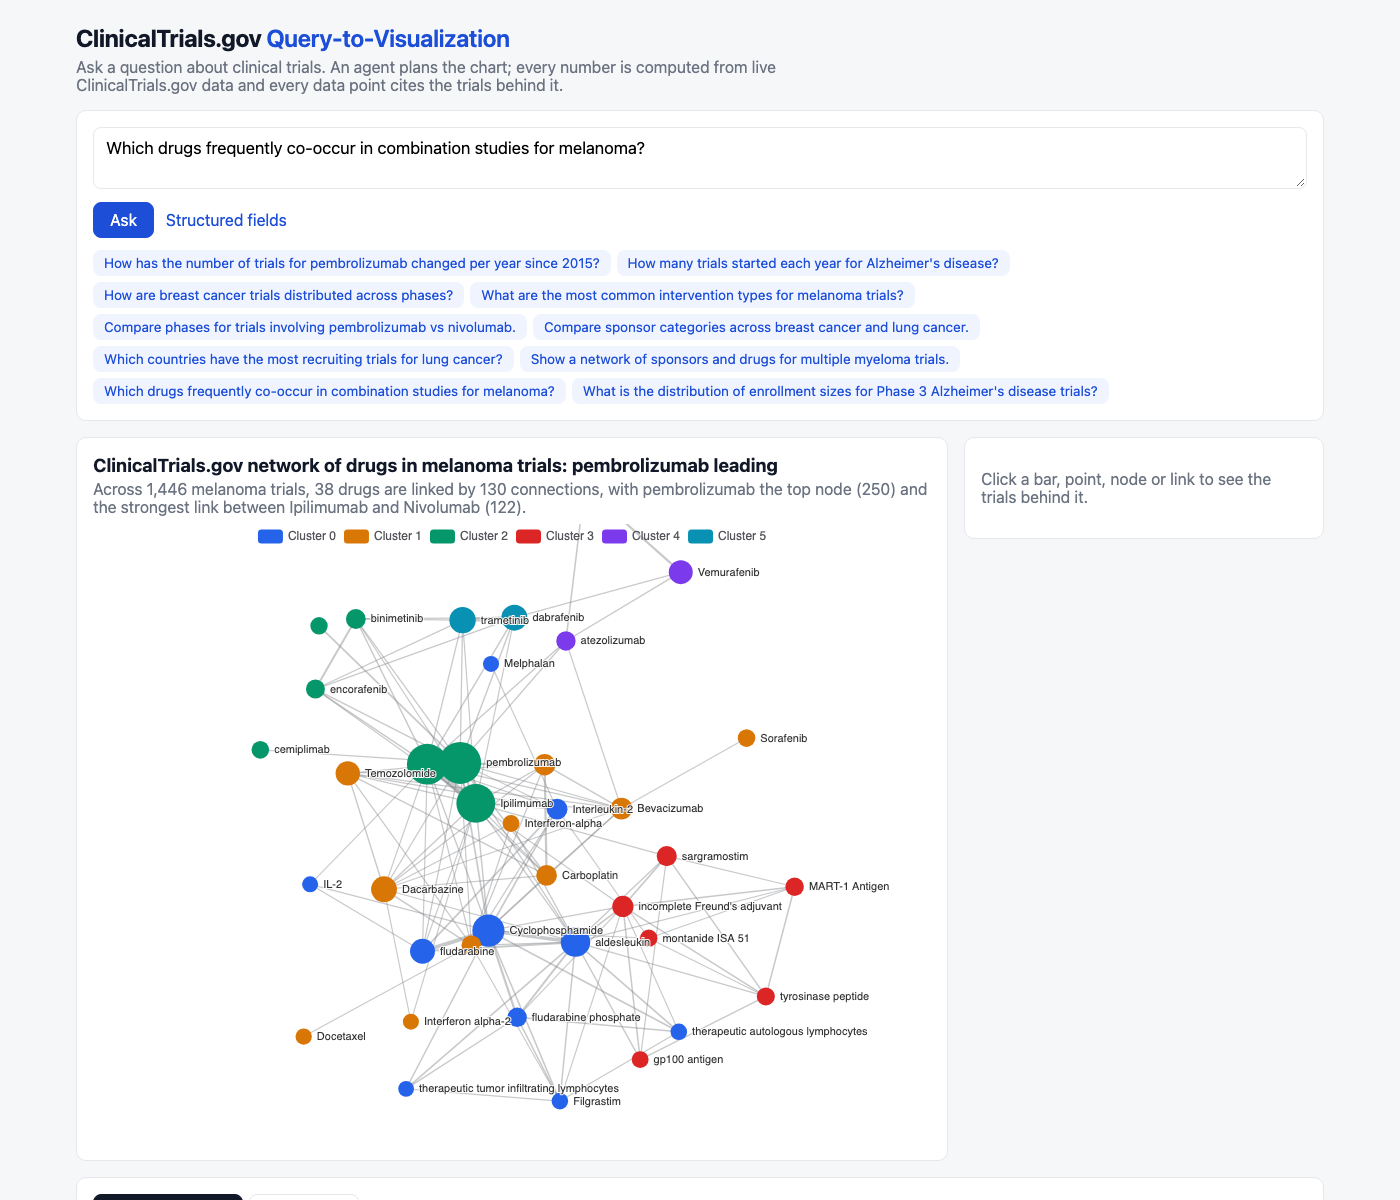
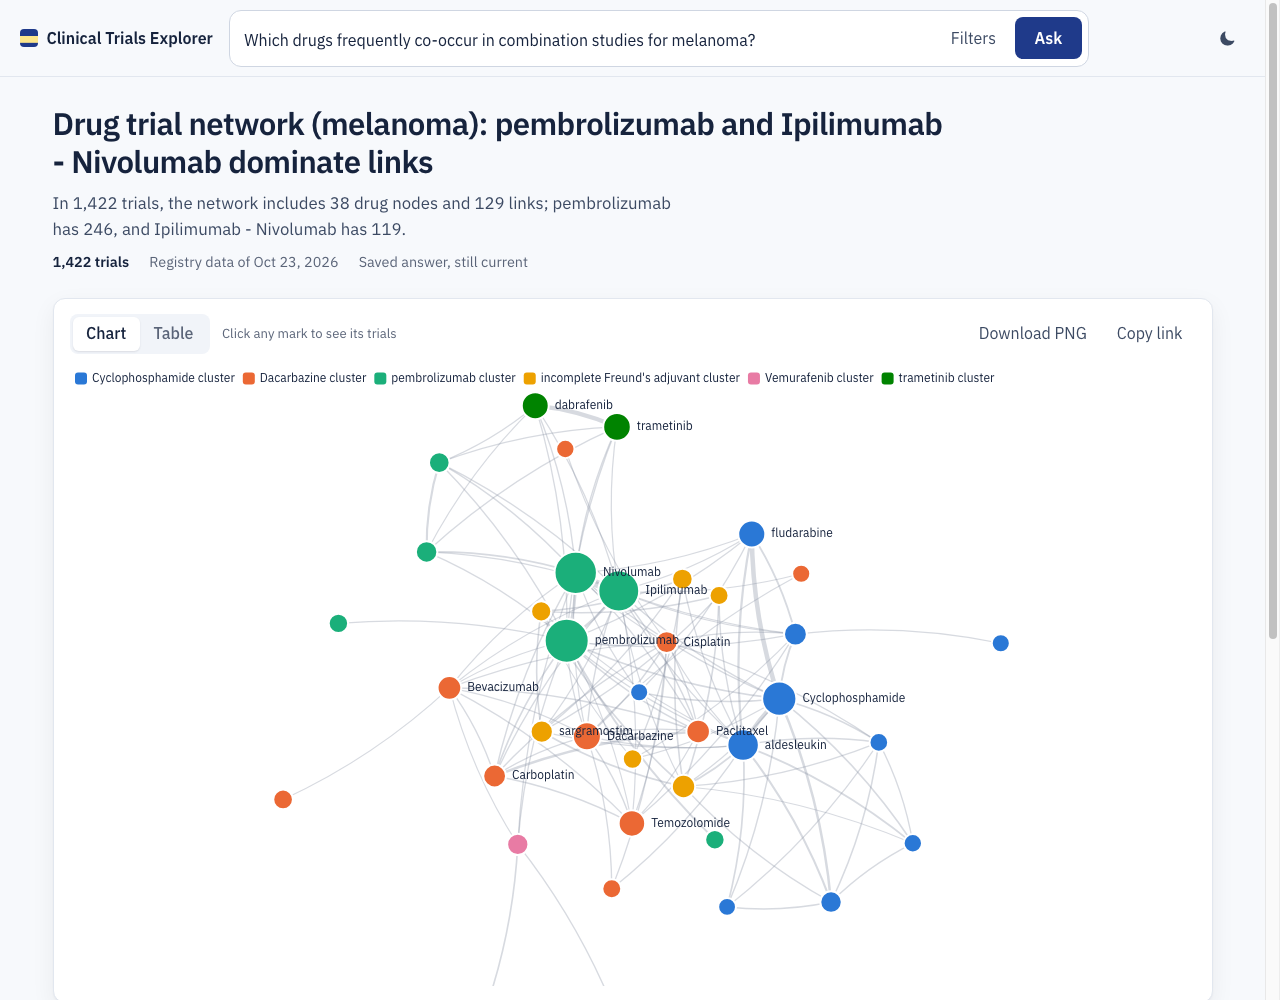
docs: describe the redesigned UI with new screenshots

diff --git a/README.md b/README.md
@@ -23,15 +23,23 @@ curl -s localhost:8000/v1/query -H 'Content-Type: application/json' \
 - Web UI: http://localhost:3000 (questions can be shared as `?q=...` links)
 - Interactive API docs (OpenAPI): http://localhost:8000/docs
 
-![Melanoma drug co-occurrence network](docs/screenshots/network.png)
+![An answer: lung cancer trials by country](docs/screenshots/answer.png)
 
-## Web UI (reference renderer)
+## Web UI
 
-A small Next.js + Apache ECharts app in [`frontend/`](frontend/). It renders every chart type **only from the response's `encoding`** ([`lib/adapter.ts`](frontend/lib/adapter.ts), tested against the example JSONs), which shows the schema can be rendered without guessing. Click any bar, point, node or link to see its citations and page through all of them; "How we got this" shows the interpretation, filters, assumptions, exclusions, the exact ClinicalTrials.gov queries, cache status, AI cost and timings; "Raw JSON" shows the response. Broad questions show background-job progress. The app proxies `/api/*` to the backend, so the API address is a runtime setting (`API_BASE_URL`).
+A Next.js + Apache ECharts app in [`frontend/`](frontend/), built for people who need to trust the numbers:
 
-| Comparison | Geographic |
-|---|---|
-| ![Grouped bars](docs/screenshots/comparison.png) | ![Countries](docs/screenshots/countries.png) |
+- **Ask in plain words**, or refine with filters (drug, condition, sponsor, country, phase, status, years, chart type) shown as removable chips. Grouped example questions and your recent questions on the home screen.
+- **Every chart traces back to the trials.** Click any bar, point, node or link: a drawer lists the trials behind it, each with the exact record lines that put it there, highlighted (field path on hover), and pages through all of them.
+- **Readable charts:** a colour-blind-safe palette validated for light and dark surfaces, horizontal bars for names, direct value labels, networks with clusters named after their largest entity, and a **table view** of every value.
+- **Plain-language method notes:** what was counted, how the question was read, what was not counted, and links to the exact ClinicalTrials.gov queries. Technical details and the raw JSON fold away.
+- **Smooth to use:** progress while answers are computed (real page progress for background jobs), light and dark themes, shareable links to an answer (`?q=`) and to one data point's trials (`&d=`), PNG download, keyboard and screen-reader support, phone layouts.
+
+The charts are drawn **only from the response's `encoding`** ([`lib/adapter.ts`](frontend/lib/adapter.ts), tested against the example JSONs), which shows the schema renders without guessing. The app proxies `/api/*` to the backend, so the API address is a runtime setting (`API_BASE_URL`).
+
+| Evidence for one bar | Drug network | Phone |
+|---|---|---|
+| ![Evidence drawer](docs/screenshots/evidence.png) | ![Network](docs/screenshots/network.png) | ![Phone](docs/screenshots/phone.png) |
 
 ## How it works
 
